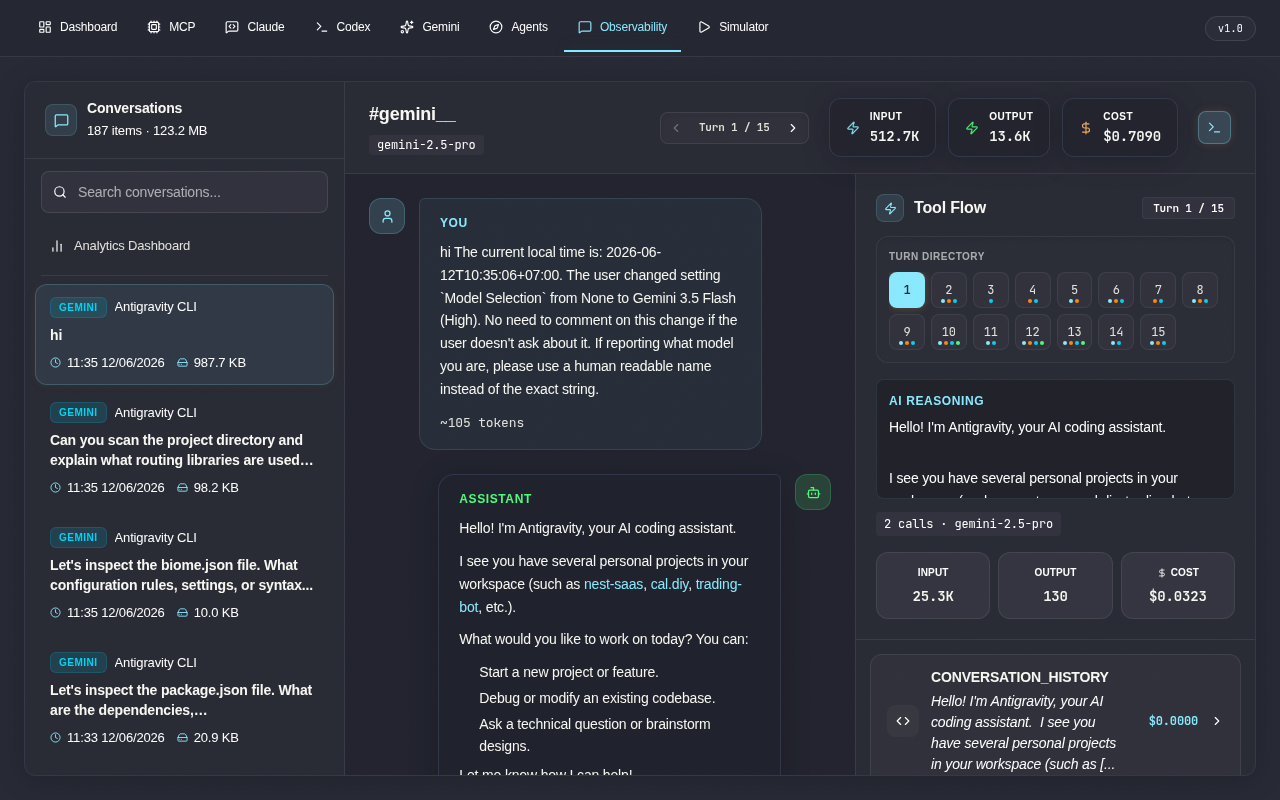
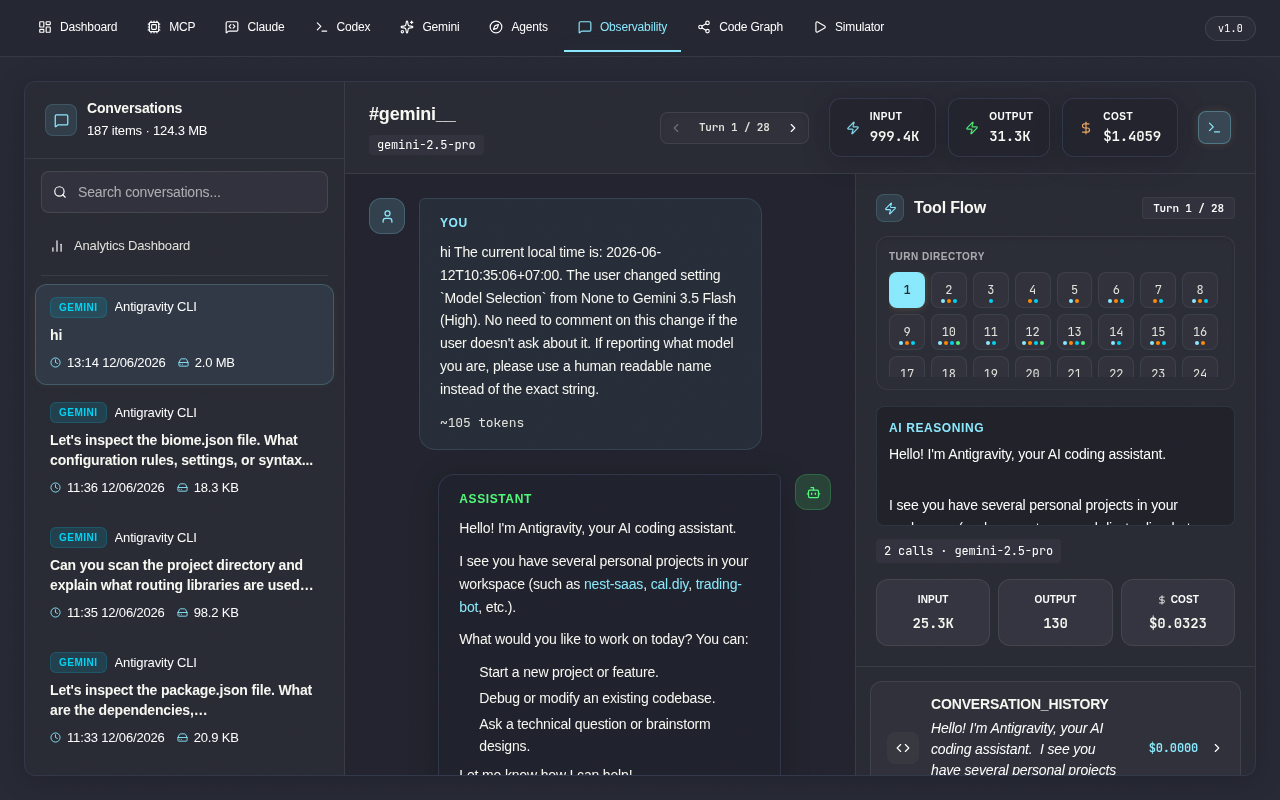
fix: resolve E2E test failures, fix React modal state bugs, and remove redundant subprocess imports

diff --git a/frontend/src/App.tsx b/frontend/src/App.tsx
@@ -201,8 +201,8 @@ export default function App() {
         newMcpUrl={mcpForm.newMcpUrl} setNewMcpUrl={mcpForm.setNewMcpUrl}
         onAdd={mcpForm.addCustomMcp}
       />
-      <ApplyModal isOpen={showApplyModal} onClose={() => setShowApplyModal(false)} onApply={(force) => config.executeApply(force, { claude: config.tempConfig!.targets.claude, codex: config.tempConfig!.targets.codex, agy: config.tempConfig!.targets.agy })} />
-      <DiscardModal isOpen={showDiscardModal} onClose={() => setShowDiscardModal(false)} onDiscard={config.executeDiscard} />
+      <ApplyModal isOpen={showApplyModal} onClose={() => setShowApplyModal(false)} onApply={(force) => { config.executeApply(force, { claude: config.tempConfig!.targets.claude, codex: config.tempConfig!.targets.codex, agy: config.tempConfig!.targets.agy }); setShowApplyModal(false); }} />
+      <DiscardModal isOpen={showDiscardModal} onClose={() => setShowDiscardModal(false)} onDiscard={() => { config.executeDiscard(); setShowDiscardModal(false); }} />
     </div>
   );
 }

diff --git a/server.py b/server.py
@@ -941,7 +941,42 @@ class ConfigHandler(BaseHTTPRequestHandler):
         # Override to suppress standard HTTP logging to keep console clean
         pass
 
+    def validate_host_and_origin(self, check_origin=True):
+        host = self.headers.get("Host", "")
+        # Allow localhost and 127.0.0.1 with any port or without port
+        host_name = host.split(":")[0] if ":" in host else host
+        if host_name not in ("localhost", "127.0.0.1"):
+            self.send_response(400)
+            self.end_headers()
+            self.wfile.write(b"Bad Request: Invalid Host Header")
+            return False
+
+        if check_origin:
+            origin = self.headers.get("Origin")
+            referer = self.headers.get("Referer")
+            
+            if origin:
+                parsed_origin = urllib.parse.urlparse(origin)
+                origin_host = parsed_origin.hostname
+                if origin_host not in ("localhost", "127.0.0.1"):
+                    self.send_response(403)
+                    self.end_headers()
+                    self.wfile.write(b"Forbidden: Cross-Origin request blocked")
+                    return False
+                    
+            if referer:
+                parsed_referer = urllib.parse.urlparse(referer)
+                referer_host = parsed_referer.hostname
+                if referer_host and referer_host not in ("localhost", "127.0.0.1"):
+                    self.send_response(403)
+                    self.end_headers()
+                    self.wfile.write(b"Forbidden: Cross-Origin referer blocked")
+                    return False
+        return True
+
     def do_GET(self):
+        if not self.validate_host_and_origin(check_origin=False):
+            return
         parsed_url = urllib.parse.urlparse(self.path)
         path = parsed_url.path
         query = urllib.parse.parse_qs(parsed_url.query)
@@ -1124,13 +1159,11 @@ class ConfigHandler(BaseHTTPRequestHandler):
                     filename = "GRAPH_TREE.html"
                     file_path = project_dir / "graphify-out" / filename
                     if not file_path.exists():
-                        import subprocess
                         subprocess.run(["graphify", "tree"], cwd=str(project_dir), capture_output=True)
                 elif view_type == "callflow":
                     filename = f"{project_name}-callflow.html"
                     file_path = project_dir / "graphify-out" / filename
                     if not file_path.exists():
-                        import subprocess
                         subprocess.run(["graphify", "export", "callflow-html"], cwd=str(project_dir), capture_output=True)
                 else:
                     filename = "graph.html"
@@ -1363,8 +1396,19 @@ class ConfigHandler(BaseHTTPRequestHandler):
         self.wfile.write(json.dumps(payload, indent=2).encode("utf-8"))
 
     def do_POST(self):
+        if not self.validate_host_and_origin(check_origin=True):
+            return
+            
         parsed_url = urllib.parse.urlparse(self.path)
         path = parsed_url.path
+        
+        if path.startswith("/api/"):
+            content_type = self.headers.get("Content-Type", "")
+            if not content_type.split(";")[0].strip().lower() == "application/json":
+                self.send_response(415)
+                self.end_headers()
+                self.wfile.write(b"Unsupported Media Type: Content-Type must be application/json")
+                return
         
         if path == "/api/save-temp":
             content_length = int(self.headers.get("Content-Length", 0))
@@ -1446,7 +1490,6 @@ class ConfigHandler(BaseHTTPRequestHandler):
                 if force:
                     cmd.append("--force")
                 
-                import subprocess
                 result = subprocess.run(cmd, cwd=str(project_dir), capture_output=True, text=True)
                 
                 self.send_response(200)

diff --git a/tests/test_conversations.py b/tests/test_conversations.py
@@ -54,5 +54,44 @@ class TestConversationsAPI(unittest.TestCase):
         except urllib.error.HTTPError as e:
             self.assertIn(e.code, (404, 500))
 
+    def test_invalid_host_header_blocked(self):
+        url = f"http://127.0.0.1:{self.port}/api/conversations"
+        req = urllib.request.Request(url)
+        req.add_header("Host", "attacker.com")
+        try:
+            urllib.request.urlopen(req)
+            self.fail("Should have blocked invalid Host header")
+        except urllib.error.HTTPError as e:
+            self.assertEqual(e.code, 400)
+
+    def test_cross_origin_referer_blocked(self):
+        url = f"http://127.0.0.1:{self.port}/api/mcp/test"
+        req = urllib.request.Request(
+            url, 
+            method="POST", 
+            data=json.dumps({"command": "node"}).encode("utf-8"),
+            headers={"Content-Type": "application/json"}
+        )
+        req.add_header("Referer", "http://attacker.com")
+        try:
+            urllib.request.urlopen(req)
+            self.fail("Should have blocked cross-origin Referer")
+        except urllib.error.HTTPError as e:
+            self.assertEqual(e.code, 403)
+
+    def test_invalid_content_type_post_blocked(self):
+        url = f"http://127.0.0.1:{self.port}/api/mcp/test"
+        req = urllib.request.Request(
+            url, 
+            method="POST", 
+            data=json.dumps({"command": "node"}).encode("utf-8"),
+            headers={"Content-Type": "text/plain"}
+        )
+        try:
+            urllib.request.urlopen(req)
+            self.fail("Should have blocked non-JSON POST requests")
+        except urllib.error.HTTPError as e:
+            self.assertEqual(e.code, 415)
+
 if __name__ == "__main__":
     unittest.main()

diff --git a/README.md b/README.md
@@ -58,41 +58,90 @@ By combining `rtk` (our ultra-compact filter proxy) and `graphify` (semantic gra
 | **Cross-File Relationships** | ~40,000 | ~300 | **99.2%** |
 | **Concept Deep-Dive** | ~20,000 | ~250 | **98.7%** |
 
-### 🧠 Graphify Execution & Rebuild Strategy
+### 🧠 Graphify Execution, Clustering, & Rebuild Strategy
 
-To get the highest quality codebase map with the best speed-to-cost ratio, follow this two-tier strategy:
+To get the highest quality codebase map with the best speed-to-cost ratio, follow this execution and update strategy:
 
 1. **Initial Setup & Big Refactors (Semantic AI Mode):**
-   Run the deep semantic extraction using your Claude Code subscription to build a high-fidelity knowledge graph (including inferred logical edges and named communities) completely for free:
+   Run the deep semantic extraction to build a high-fidelity knowledge graph (including inferred logical edges and named communities):
    ```bash
-   graphify extract . --mode deep --backend claude-cli
+   graphify extract . --mode deep --backend gemini
    ```
-   *Note: Ensure you are logged into the `claude` CLI (`claude` command works) beforehand.*
+   *Note: You can choose whichever LLM backend you prefer (`gemini`, `claude-cli`, `openai`, `kimi`, etc.) based on active API keys.*
 
-2. **Daily Commits & Checkouts (Background Git Hooks):**
-   Let the automated background Git Hooks run the offline algorithm-only update:
+2. **Louvain Clustering & AI Labeling:**
+   Graphify segments codebase modules using **Louvain Community Detection** locally (free & offline).
+   *   **Default State:** Communities are named `Community 0`, `Community 1`, etc. in `graphify-out/.graphify_labels.json`.
+   *   **AI Community Naming:** Assign descriptive names (e.g. *"Authentication & JWT"*, *"Database Migrations"*) via the LLM:
+       ```bash
+       graphify label . --backend gemini
+       ```
+   *   **Re-clustering (After major refactors):** Recalculate community boundaries without losing existing names:
+       ```bash
+       graphify cluster-only .
+       graphify label . --backend gemini
+       ```
+
+3. **Daily Commits & Checkouts (Background Git Hooks):**
+   Automated background Git Hooks run the offline algorithm-only update:
    ```bash
    graphify update .
    ```
-   This updates the graph instantly (1-2 seconds) using local AST and regex parsing for modified/new/deleted files without blocking your terminal or burning API limits.
+   This updates the graph instantly (1-2 seconds) using local AST and regex parsing. It automatically preserves the named community labels in `graphify-out/.graphify_labels.json` to avoid duplicate LLM calls or burning API limits.
 
-3. **Periodic AI Refresh (Weekly / End of Sprint):**
+4. **Periodic AI Refresh (Weekly / End of Sprint):**
    To prevent "semantic degradation" (since daily commits only update structural nodes), refresh the semantic edges periodically:
    *   **Linux/WSL (Cron):** Add to `crontab -e`:
        ```bash
-       0 22 * * 5 cd ~/projects/ai-coding-config && graphify extract . --mode deep --backend claude-cli --no-cluster
+       0 22 * * 5 cd ~/projects/ai-coding-config && graphify extract . --mode deep --backend gemini --no-cluster
        ```
    *   **Windows (Command Prompt):** Register a Task Scheduler command:
        ```cmd
-       schtasks /create /tn "Graphify AI Refresh" /tr "cmd.exe /c cd C:\projects\ai-coding-config && graphify extract . --mode deep --backend claude-cli --no-cluster" /sc weekly /d FRI /st 22:00
+       schtasks /create /tn "Graphify AI Refresh" /tr "cmd.exe /c cd C:\projects\ai-coding-config && graphify extract . --mode deep --backend gemini --no-cluster" /sc weekly /d FRI /st 22:00
        ```
    *   *Optimization Tip:* Adding `--no-cluster` skips community grouping, making the rebuild much faster and lighter on tokens.
 
-4. **Quality Auditing (Graph Health Check):**
+5. **Quality Auditing (Graph Health Check):**
    Measure the token savings and graph quality at any time:
    ```bash
    graphify benchmark graphify-out/graph.json
    ```
+
+---
+
+## 🔄 Unified Workflow & Configuration Scope
+
+The AI Coding Config Engine manages a three-way sync workflow to align developer tools system-wide.
+
+```
+┌──────────────────────────────────────────────────────────┐
+│                 Interactive Dashboard                    │
+│                 (http://localhost:8000)                  │
+└────────────────────────────┬─────────────────────────────┘
+                             │
+                             ▼  Saves Enabled Configs
+               ┌─────────────┴─────────────┐
+               │    server.py Sync Hub     │
+               └─┬───────────┬───────────┬─┘
+                 │           │           │
+                 ▼           ▼           ▼
+             [Claude]     [Codex]     [Gemini]
+            ~/.claude   ~/.codex   ~/.gemini/config
+```
+
+### 1. Workflow
+1. **Bootstrap & Project Link:** Run `install.py --all --project /path/to/project`. This injects custom Git Hooks and instructions (`CLAUDE.md`, `ANTIGRAVITY.md`, `AGENTS.md`) into your workspace.
+2. **Synchronized Configuration:** Any changes made in the dashboard (enabling/disabling MCP servers, updating custom variables) write concurrently to `~/.claude/settings.json`, `~/.codex/config.toml`, and `~/.gemini/config/mcp_config.json`.
+3. **AST-driven Navigation:** When an AI assistant handles a request, Git-based pre-tool-use hooks redirect broad directory/grep searches to `rtk graphify query` to save up to 99.8% of context token budget.
+4. **Visual Monitoring:** Open `./run-web.sh` to check active configurations, edit rules inside modals, or visually inspect the module dependency trees, call flows, and 2D network graphs.
+
+### 2. Configuration Scope
+*   **Settings File Targets:**
+    *   `Claude Code`: JSON structure containing `PreToolUse` hooks and enabled MCP servers.
+    *   `Codex CLI`: TOML structure containing `[mcp_servers]` sections and local parameters.
+    *   `Antigravity CLI (agy)`: JSON structure containing `BeforeTool` hooks and custom Gemini MCP parameters.
+*   **Rules & Markdown instructions:** Sets up and synchronizes project-level rules (like target thresholds, testing requirements) within `CLAUDE.md`, `ANTIGRAVITY.md`, and `AGENTS.md`.
+*   **Background Hook Gate:** Automatically registers the `rtk` filter proxy. If the graph exists, it restricts assistants to 3 graph queries maximum per session, forcing context consolidation.
 
 ---
 
@@ -132,12 +181,41 @@ Manage your agents, configurations, and MCP servers visually.
 
 ## 🧪 Verification & Test Suite
 
-Verify syntax, templates, and hook-filtering behavior locally:
+Verify configurations, security controls, layout alignment, and E2E navigation flows:
 
+### 1. Python Unit Tests (Config & Security)
+Runs 68 unit tests verifying template generation, hook execution, and host/CORS security policies:
 ```bash
-python3 -m unittest tests/test_config.py
-python3 -m unittest tests/test_cal_diy_integration.py
+pytest
 ```
+
+### 2. Layout & Structural Alignment Checks
+Verifies that all three CLI configuration tabs (Claude, Codex, Gemini) maintain 100% identical settings layout structures:
+```bash
+node frontend/verify-layout.cjs
+```
+
+### 3. Playwright E2E Tests (Full User Flow & Observability)
+Verifies tab navigation, adding/removing custom MCP servers, staging changes, log streaming, and analytics detail views:
+```bash
+# Main E2E flow
+node frontend/test-e2e.cjs
+
+# Complex apply scenarios (Standard Apply vs Force Overwrite)
+node frontend/test-apply-scenarios.cjs
+
+# Observability dashboard analytics & conversation detail log viewer
+node frontend/test-analytics-e2e.cjs
+```
+
+---
+
+## 🔒 Security Hardening
+
+The Configuration API server includes built-in protection against cross-site exploitation:
+*   **Host Header Validation:** Rejects any requests where the `Host` header is not strictly `localhost` or `127.0.0.1` (protecting against DNS Rebinding and Host Header attacks).
+*   **Cross-Origin (CORS) Protection:** Rejects any `POST` requests containing cross-origin `Origin` or `Referer` headers.
+*   **Content-Type Enforcement:** Enforces strict `application/json` Content-Type check on all `/api/` endpoints. This forces browsers to perform a CORS preflight OPTIONS check for cross-origin scripts, which is automatically blocked since no wildcard origin headers are allowed.
 
 ---
 